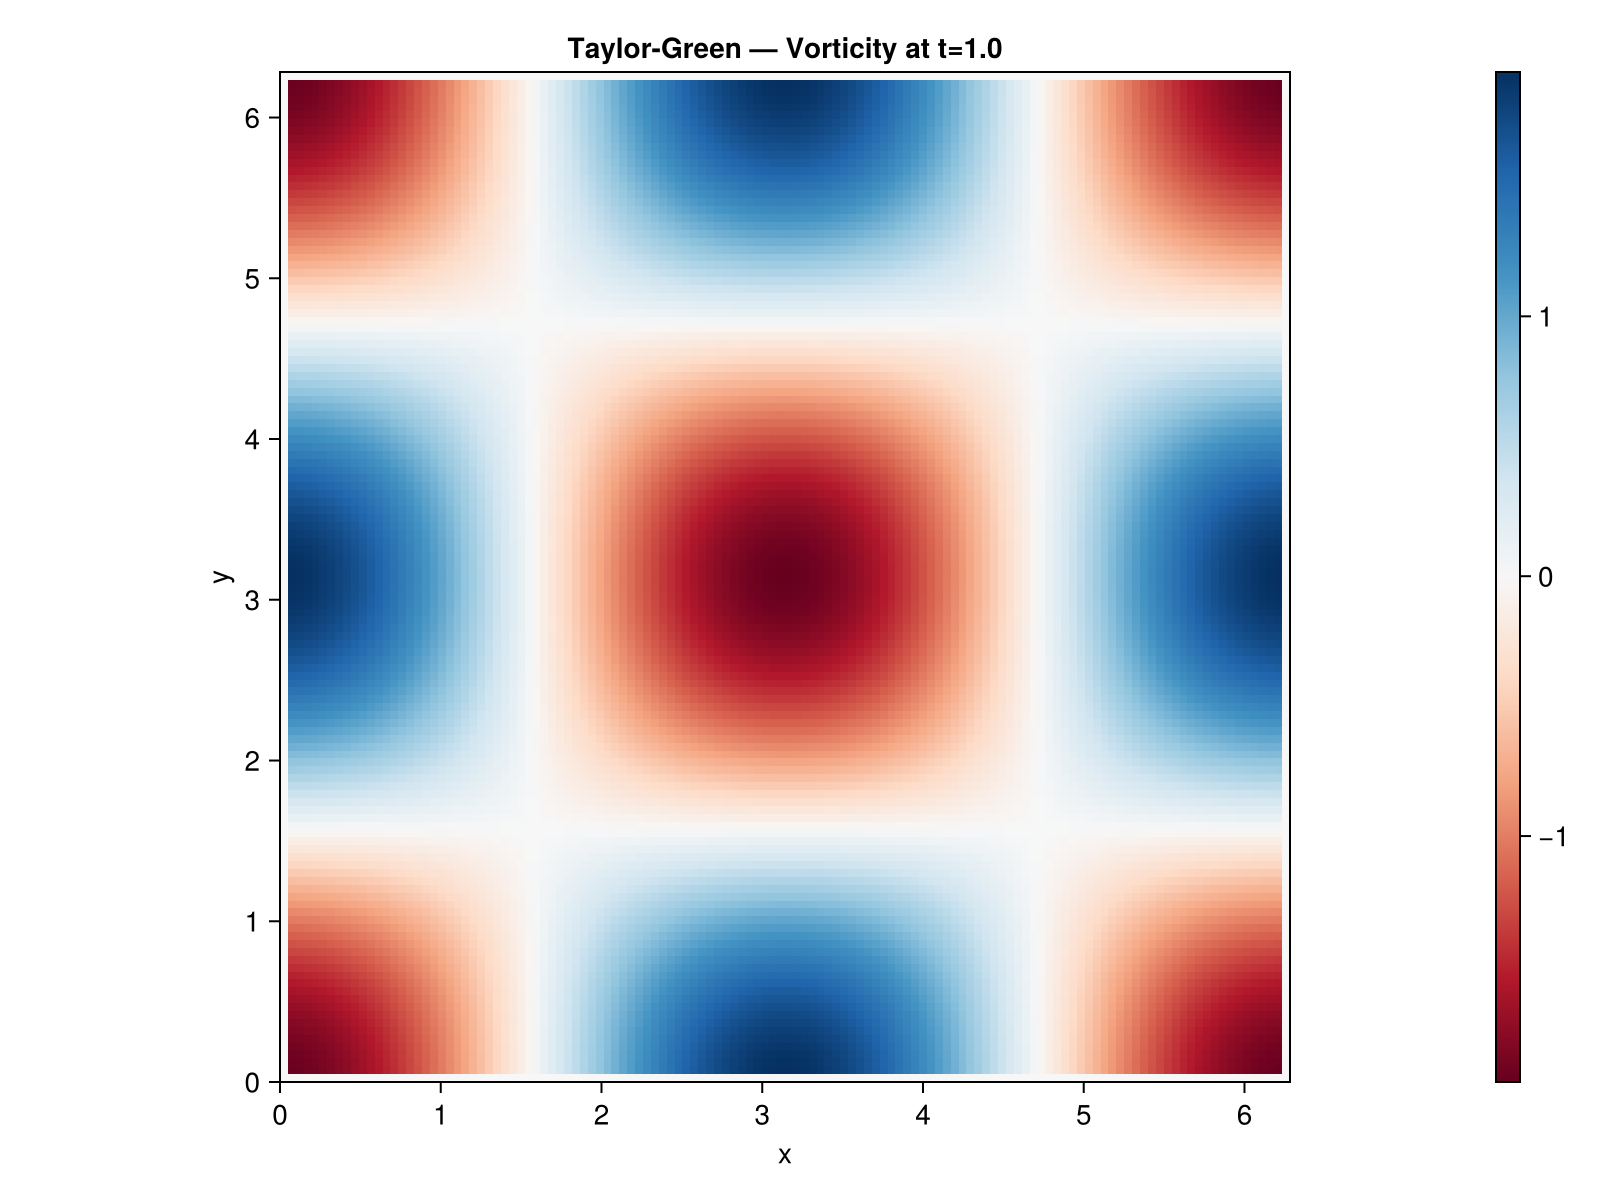
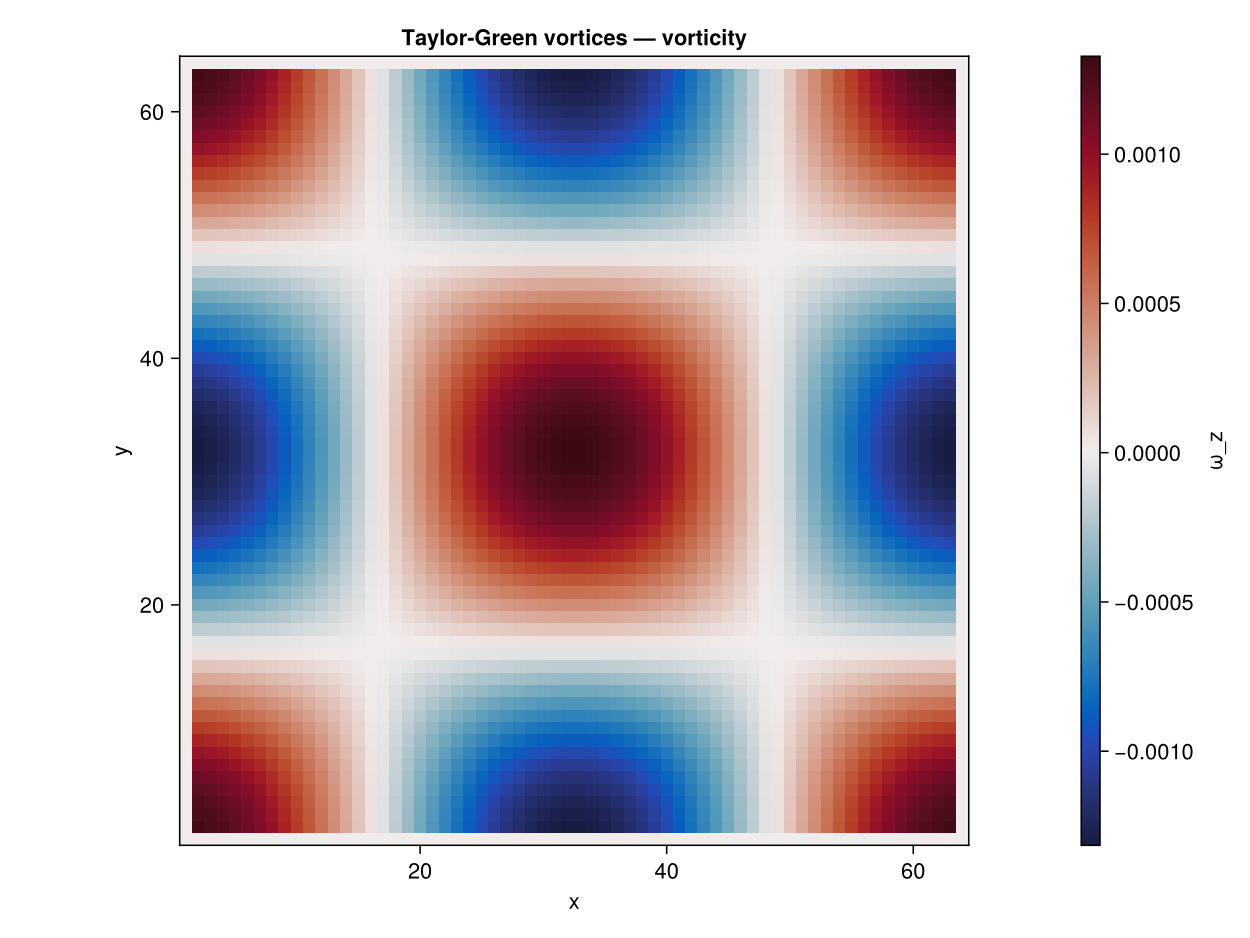
feat(view+docs): KrakenView figures for examples (Phase 4.3 Pass B)
view/generate_doc_figures.jl — standalone script that runs each in-scope
.krk and generates the corresponding PNG figure into docs/src/assets/figures/

Figures (9/9 generated, ~40-85 KB each):
- poiseuille_profile: analytical parabola overlay
- couette_profile: analytical linear overlay
- taylor_green_vorticity: central-difference vorticity field
- cavity_centerlines: ux profile vs y
- cavity_3d_umag: |u| heatmap at mid-z plane (D3Q19)
- cylinder_umag: |u| heatmap with solid mask
- heat_profile: T profile along x
- rayleigh_benard_temperature: T field
- hagen_poiseuille_profile: uz profile vs r, analytical overlay

Skipped:
- 10_krk_config: tutorial page, no single case figure
- 20_grid_refinement_cavity: runner errors on non-thermal refined (v0.2.0)

Example pages updated: 'figure pending' notes removed from 01-09.
Backend: CairoMakie (added to script imports)
Total wall-clock: ~175s (cavity_3d dominates at 145s)
Main test suite: 2153 passed, docs build: PASS

diff --git a/docs/src/examples/08_rayleigh_benard.md b/docs/src/examples/08_rayleigh_benard.md
@@ -15,7 +15,6 @@ TODO Phase 4.6: add DOI to `refs.bib` (`devahldavis1983`).
 **Hardware:** Apple M2, ~90s wall-clock at 128×64 (Ra = 10⁵)
 
 ![Rayleigh-Benard temperature field](../assets/figures/rayleigh_benard_temperature.png)
-*(figure pending — generated by KrakenView in Phase 4.3 Pass B)*
 
 ---
 

diff --git a/docs/src/examples/09_hagen_poiseuille.md b/docs/src/examples/09_hagen_poiseuille.md
@@ -15,7 +15,6 @@ EditURL = "09_hagen_poiseuille.jl"
 **Hardware:** Apple M2, ~10s wall-clock at Nz = 4, Nr = 32
 
 ![Hagen-Poiseuille profile](../assets/figures/hagen_poiseuille_profile.png)
-*(figure pending — generated by KrakenView in Phase 4.3 Pass B)*
 
 ---
 

diff --git a/docs/src/examples/06_cylinder_2d.md b/docs/src/examples/06_cylinder_2d.md
@@ -15,7 +15,6 @@ immersed solid via inline geometry predicate
 **Hardware:** Apple M2, ~45s wall-clock at 200×50
 
 ![Cylinder velocity magnitude](../assets/figures/cylinder_umag.png)
-*(figure pending — generated by KrakenView in Phase 4.3 Pass B)*
 
 ---
 

diff --git a/docs/src/examples/03_taylor_green_2d.md b/docs/src/examples/03_taylor_green_2d.md
@@ -15,7 +15,6 @@ EditURL = "03_taylor_green_2d.jl"
 **Hardware:** Apple M2, ~5s wall-clock at N = 64×64
 
 ![Taylor-Green vorticity](../assets/figures/taylor_green_vorticity.png)
-*(figure pending — generated by KrakenView in Phase 4.3 Pass B)*
 
 ---
 

diff --git a/docs/src/examples/01_poiseuille_2d.md b/docs/src/examples/01_poiseuille_2d.md
@@ -17,7 +17,6 @@ EditURL = "01_poiseuille_2d.jl"
 **Hardware:** Apple M2, ~10s wall-clock at N = 4×32
 
 ![Poiseuille velocity profile](../assets/figures/poiseuille_profile.png)
-*(figure pending — generated by KrakenView in Phase 4.3 Pass B)*
 
 ---
 

diff --git a/docs/src/examples/04_cavity_2d.md b/docs/src/examples/04_cavity_2d.md
@@ -16,7 +16,6 @@ EditURL = "04_cavity_2d.jl"
 **Hardware:** Apple M2, ~30s wall-clock at N = 128×128
 
 ![Cavity centerline profiles](../assets/figures/cavity_centerlines.png)
-*(figure pending — generated by KrakenView in Phase 4.3 Pass B)*
 
 ---
 

diff --git a/docs/src/examples/05_cavity_3d.md b/docs/src/examples/05_cavity_3d.md
@@ -16,7 +16,6 @@ TODO Phase 4.6: add DOI to `refs.bib` (`kuhirshtaylor1987`).
 NVIDIA H100, ~30s at N = 64³
 
 ![Cavity 3D streamlines](../assets/figures/cavity_3d_umag.png)
-*(figure pending — generated by KrakenView in Phase 4.3 Pass B)*
 
 ---
 

diff --git a/docs/src/examples/02_couette_2d.md b/docs/src/examples/02_couette_2d.md
@@ -15,7 +15,6 @@ EditURL = "02_couette_2d.jl"
 **Hardware:** Apple M2, ~10s wall-clock at N = 4×32
 
 ![Couette velocity profile](../assets/figures/couette_profile.png)
-*(figure pending — generated by KrakenView in Phase 4.3 Pass B)*
 
 ---
 

diff --git a/docs/src/examples/07_heat_conduction.md b/docs/src/examples/07_heat_conduction.md
@@ -15,7 +15,6 @@ EditURL = "07_heat_conduction.jl"
 **Hardware:** Apple M2, ~15s wall-clock at 128×32
 
 ![Heat conduction profile](../assets/figures/heat_profile.png)
-*(figure pending — generated by KrakenView in Phase 4.3 Pass B)*
 
 ---
 
